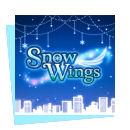
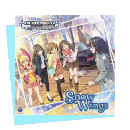
ver.160409
新曲を２曲追加
Hotel Moonside
ハイファイ☆デイズ (event)

通常楽曲に変更
Absolute Nine

画像を変更
Snow Wings

diff --git a/form.css b/form.css
@@ -239,6 +239,14 @@ td {
 	background: url("bg/45.jpg");
 }
 
+#bg46 {
+	background: url("bg/46.jpg");
+}
+
+#bg47 {
+	background: url("bg/47.jpg");
+}
+
 #bg51 {
 	background: url("bg/51.jpg");
 }

diff --git a/index.php b/index.php
@@ -213,6 +213,19 @@
 			<td><input class="Master" id="31_4" name="arr[]" type="checkbox"
 				value="26_13"></td>
 		</tr>
+				<tr>
+			<th class="index" id="bg44">
+				<div class="wrapper">Absolute Nine</div>
+			</th>
+			<td><input class="Debut" id="44_1" name="arr[]" type="checkbox"
+				value="09_11"></td>
+			<td><input class="Regular" id="44_2" name="arr[]" type="checkbox"
+				value="13_23"></td>
+			<td><input class="Pro" id="44_3" name="arr[]" type="checkbox"
+				value="18_16"></td>
+			<td><input class="Master" id="44_4" name="arr[]" type="checkbox"
+				value="26_16"></td>
+		</tr>
 		<tr>
 			<th class="index" id="bg06">
 				<div class="wrapper">S(mile)ING!</div>
@@ -499,7 +512,19 @@
 			<td><input class="Master" id="45_4" name="arr[]" type="checkbox"
 				value="27_4"></td>
 		</tr>
-
+				<tr>
+			<th class="limited" id="bg47">
+				<div class="wrapper">Hotel Moonside</div>
+			</th>
+			<td><input class="Debut" id="47_1" name="arr[]" type="checkbox"
+				value=09_12></td>
+			<td><input class="Regular" id="47_2" name="arr[]" type="checkbox"
+				value="14_16"></td>
+			<td><input class="Pro" id="47_3" name="arr[]" type="checkbox"
+				value="19_8"></td>
+			<td><input class="Master" id="47_4" name="arr[]" type="checkbox"
+				value="27_5"></td>
+		</tr>
 		<tr>
 			<th class="index" id="bg17">
 				<div class="wrapper">Star!!</div>
@@ -863,19 +888,20 @@
 			<td><input class="Master" id="95_4" name="arr[]" type="checkbox"
 				value="25_11"></td>
 		</tr>
-		<tr>
-			<th class="limited" id="bg44">
-				<div class="wrapper">Absolute Nine</div>
+				<tr>
+			<th class="limited" id="bg46">
+				<div class="wrapper">ハイファイ☆デイズ</div>
 			</th>
-			<td><input class="Debut" id="44_1" name="arr[]" type="checkbox"
-				value="09_11"></td>
-			<td><input class="Regular" id="44_2" name="arr[]" type="checkbox"
-				value="13_23"></td>
-			<td><input class="Pro" id="44_3" name="arr[]" type="checkbox"
-				value="18_16"></td>
-			<td><input class="Master" id="44_4" name="arr[]" type="checkbox"
-				value="26_16"></td>
+			<td><input class="Debut" id="46_1" name="arr[]" type="checkbox"
+				value=07_06></td>
+			<td><input class="Regular" id="46_2" name="arr[]" type="checkbox"
+				value="13_25"></td>
+			<td><input class="Pro" id="46_3" name="arr[]" type="checkbox"
+				value="18_17"></td>
+			<td><input class="Master" id="46_4" name="arr[]" type="checkbox"
+				value="24_8"></td>
 		</tr>
+
 
 	</table>
 	<br>

diff --git a/process.php b/process.php
@@ -4,8 +4,8 @@ require_once 'twitter/twitteroauth/autoload.php';
 use Abraham\TwitterOAuth\TwitterOAuth;
 
 // 更新時に真っ先に変えなきゃいけないゾーン
-$version = "160329";
-$music_max = 57 * 4; // 全曲数
+$version = "160409";
+$music_max = 59 * 4; // 全曲数
 $music_max_masplus = 0 * 4; // マスプラの曲数
 
 $music_ignore_a = 13 * 4; // 限定楽曲数
